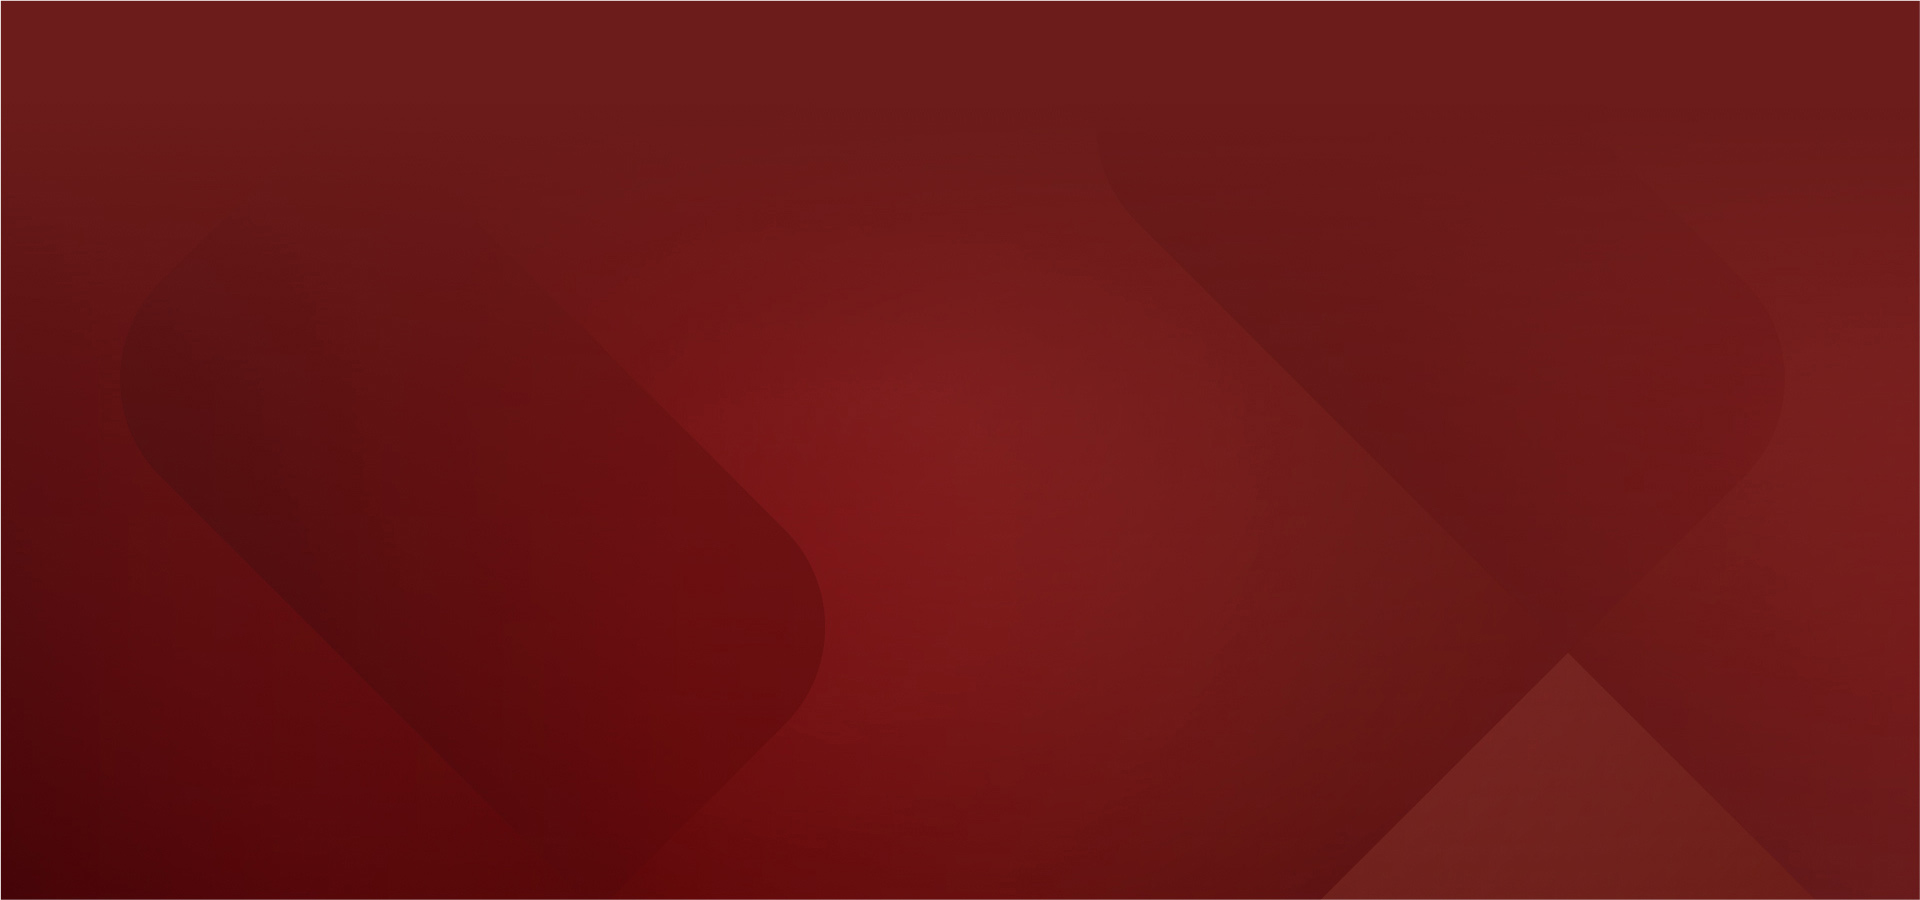
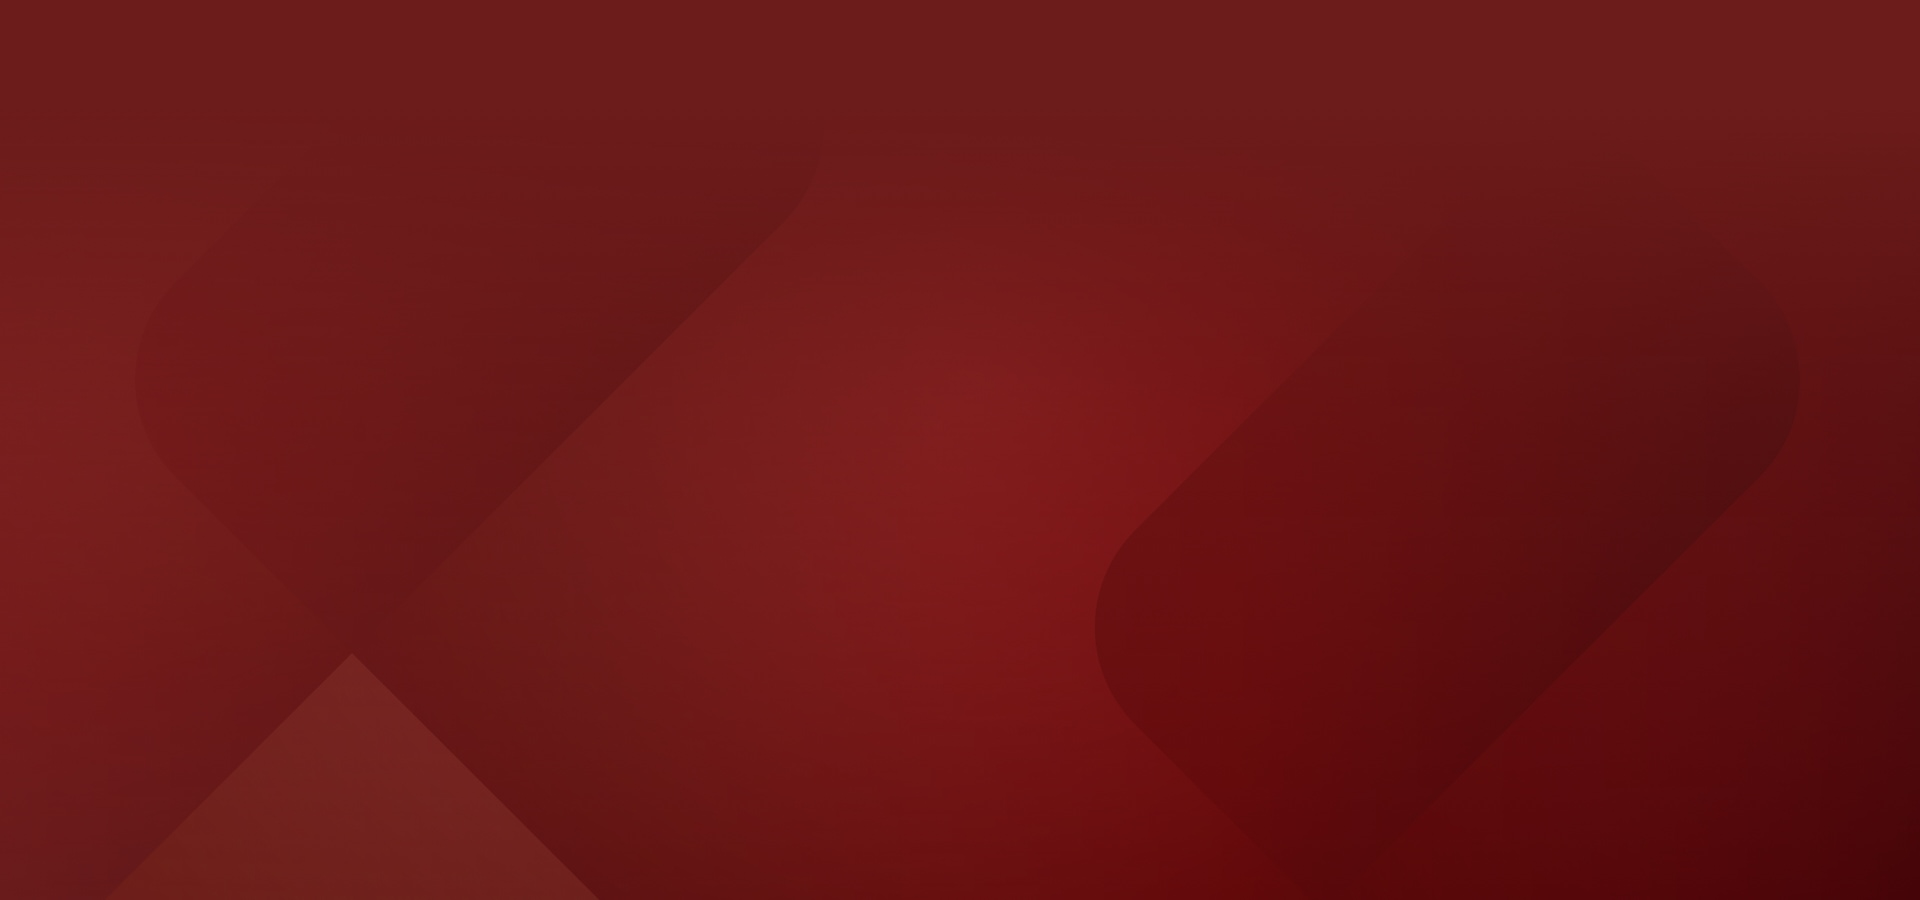
Update background images for header & footer

Changed region(s): [[0.0, 0.3422, 1.0, 1.0]]

diff --git a/src/components/Participants.vue b/src/components/Participants.vue
@@ -1,5 +1,5 @@
 <template>
-  <div class="pt-10 bg-secondary-500 -mt-1 bg-cover"
+  <div class="pt-10 bg-secondary-500 bg-cover"
        :style="{ background: '#6c1c1b center / cover no-repeat url(\'' + require('@/assets/images/footer-bg.jpg') + '\')' }">
     <div class="container">
       <h2

diff --git a/src/components/Collections.vue b/src/components/Collections.vue
@@ -1,5 +1,5 @@
 <template>
-  <div class="pt-10 pb-32 bg-secondary-500 -mt-1">
+  <div class="pt-10 pb-32 bg-secondary-500">
     <div class="container">
       <h2 class="text-bold text-white text-3xl md:text-5xl leading-tight mb-32"
           id="collections">

diff --git a/src/components/HowTo.vue b/src/components/HowTo.vue
@@ -1,5 +1,5 @@
 <template>
-  <div class="py-20 bg-secondary-500 -mt-1">
+  <div class="py-20 bg-secondary-500">
     <div class="container">
       <h2 class="text-bold text-white text-3xl md:text-5xl leading-tight mb-10 md:mb-32"
           id="how-to">
